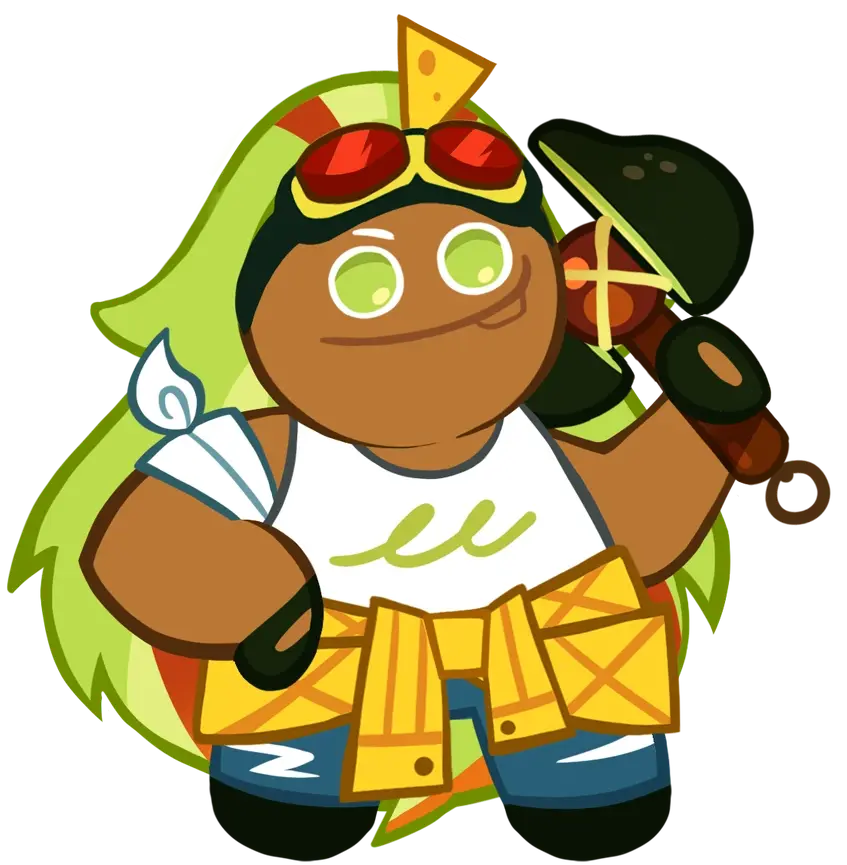
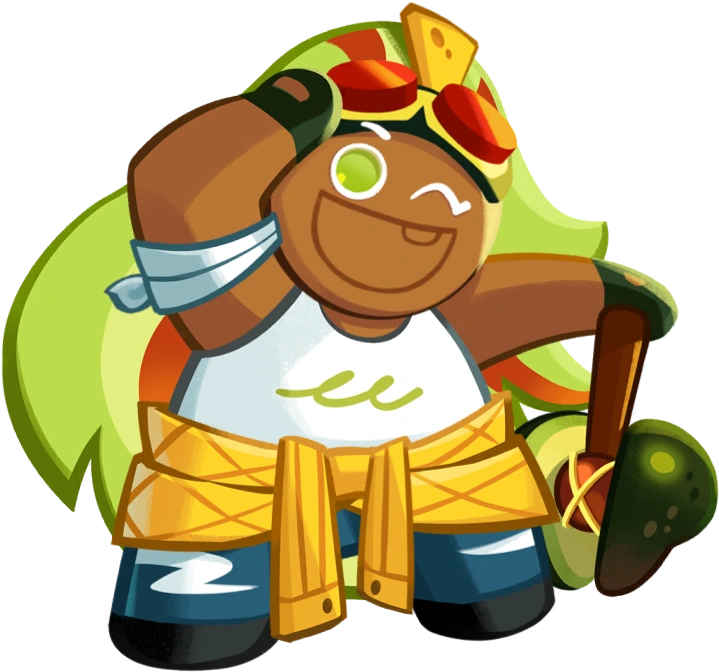
MAJ Cookie Avocat

diff --git a/assets/js/cookie_avocat.js b/assets/js/cookie_avocat.js
@@ -54,3 +54,72 @@ elements.forEach(img => {
 document.getElementById('btn-save').addEventListener('click', () => {
   alert('Modifications sauvegardées 🍪');
 });
+
+document.addEventListener("DOMContentLoaded", () => {
+  const mainIllustration = document.querySelector(".illustration-cookie img");
+  const gallery = document.querySelector(".costume-gallery");
+  if (!mainIllustration || !gallery) return;
+
+  const cookieIdAttr = document.querySelector(".page-cookie")?.getAttribute("data-cookie-id");
+  const nameKey =
+    (document.querySelector(".nom-cookie")?.textContent || location.pathname.split("/").pop() || "cookie")
+      .trim().toLowerCase().replace(/\s+/g, "-");
+  const pageKey = cookieIdAttr || nameKey;
+  const LS_KEY = `cookie-illustration:${pageKey}`;
+
+  const getColorSrc = (el) => {
+    try {
+      const arr = JSON.parse(el.getAttribute("data-images") || "[]");
+      return arr.length ? arr[arr.length - 1] : null;
+    } catch { return null; }
+  };
+
+  const getTargetIllustration = (el) =>
+    el.getAttribute("data-illustration-replace") || getColorSrc(el);
+
+  const isObtained = (el) => {
+    const step = parseInt(el.getAttribute("data-step") || "0", 10);
+    return step >= 1 || el.classList.contains("obtained");
+  };
+
+  const applyIllustration = (src) => {
+    if (!src) return;
+    mainIllustration.src = src;
+    localStorage.setItem(LS_KEY, src);
+  };
+
+  // Sauvegarde l'image d'origine
+  const originalSrc = mainIllustration.getAttribute("data-original") || mainIllustration.src;
+  mainIllustration.setAttribute("data-original", originalSrc);
+
+  // Restaurer l'illustration sauvegardée au chargement
+  const saved = localStorage.getItem(LS_KEY);
+  if (saved) mainIllustration.src = saved;
+
+  // Fonction pour vérifier si TOUS les costumes sont revenus en NB
+  const checkAllReset = () => {
+    const costumes = gallery.querySelectorAll(".costume-toggle");
+    const allReset = Array.from(costumes).every(c => !isObtained(c));
+    if (allReset) {
+      // remet l'illustration d'origine
+      mainIllustration.src = originalSrc;
+      localStorage.removeItem(LS_KEY);
+      console.log("🔄 Tous les costumes sont revenus en NB — illustration d'origine restaurée.");
+    }
+  };
+
+  // Quand on clique sur un costume
+  gallery.addEventListener("click", (e) => {
+    const img = e.target.closest(".costume-toggle");
+    if (!img) return;
+    setTimeout(() => {
+      if (isObtained(img)) {
+        const newSrc = getTargetIllustration(img);
+        applyIllustration(newSrc);
+      } else {
+        // Si on a repassé en NB, vérifier si tous le sont
+        checkAllReset();
+      }
+    }, 0);
+  });
+});

diff --git a/pages/cookie_avocat.html b/pages/cookie_avocat.html
@@ -30,9 +30,11 @@
 
  <div class="costume-item">
     <img alt="Costume 2" class="costume-toggle" data-id="cookie-avocat-audacieuse-et-courageuse" data-images='[
-      "../assets/images/cookies/cookie_avocat/cookie_avocat_audacieuse_et_courageuse_nb.webp",
-      "../assets/images/cookies/cookie_avocat/cookie_avocat_audacieuse_et_courageuse.webp"
-    ]' data-step="0" src="../assets/images/cookies/cookie_avocat/cookie_avocat_audacieuse_et_courageuse_nb.webp"/>
+      "../assets/images/cookies/cookie_avocat/cookie_avocat_costume_audacieuse_et_courageuse_nb.webp",
+      "../assets/images/cookies/cookie_avocat/cookie_avocat_costume_audacieuse_et_courageuse.webp"
+    ]' 
+    data-illustration-replace="../assets/images/cookies/cookie_avocat/cookie_avocat_audacieuse_et_courageuse.webp"
+    data-step="0" src="../assets/images/cookies/cookie_avocat/cookie_avocat_costume_audacieuse_et_courageuse_nb.webp"/>
   <div class="costume-icon">
     <img alt="Icône normal" src="../assets/images/rarete/normal_costume.webp"/>
   </div>
@@ -49,7 +51,7 @@
    <h1 class="nom-cookie">Cookie Avocat</h1>
   </div>
   <div class="illustration-cookie">
-    <img alt="Illustration Cookie" src="../assets/images/cookies/cookie_avocat/cookie_avocat.webp"/>
+    <img alt="Illustration Cookie" src="../assets/images/cookies/cookie_avocat/cookie_avocat_gif.webp"/>
   </div>
 
   <div class="badges">

diff --git a/assets/css/cookie_avocat.css b/assets/css/cookie_avocat.css
@@ -196,7 +196,7 @@ body {
   top: 550px;
   right: 100px;
   display: flex;
-  gap: 20px;
+  gap: 10px;
 }
 
 /* Ajout pour gestion des garnitures cycliques */
